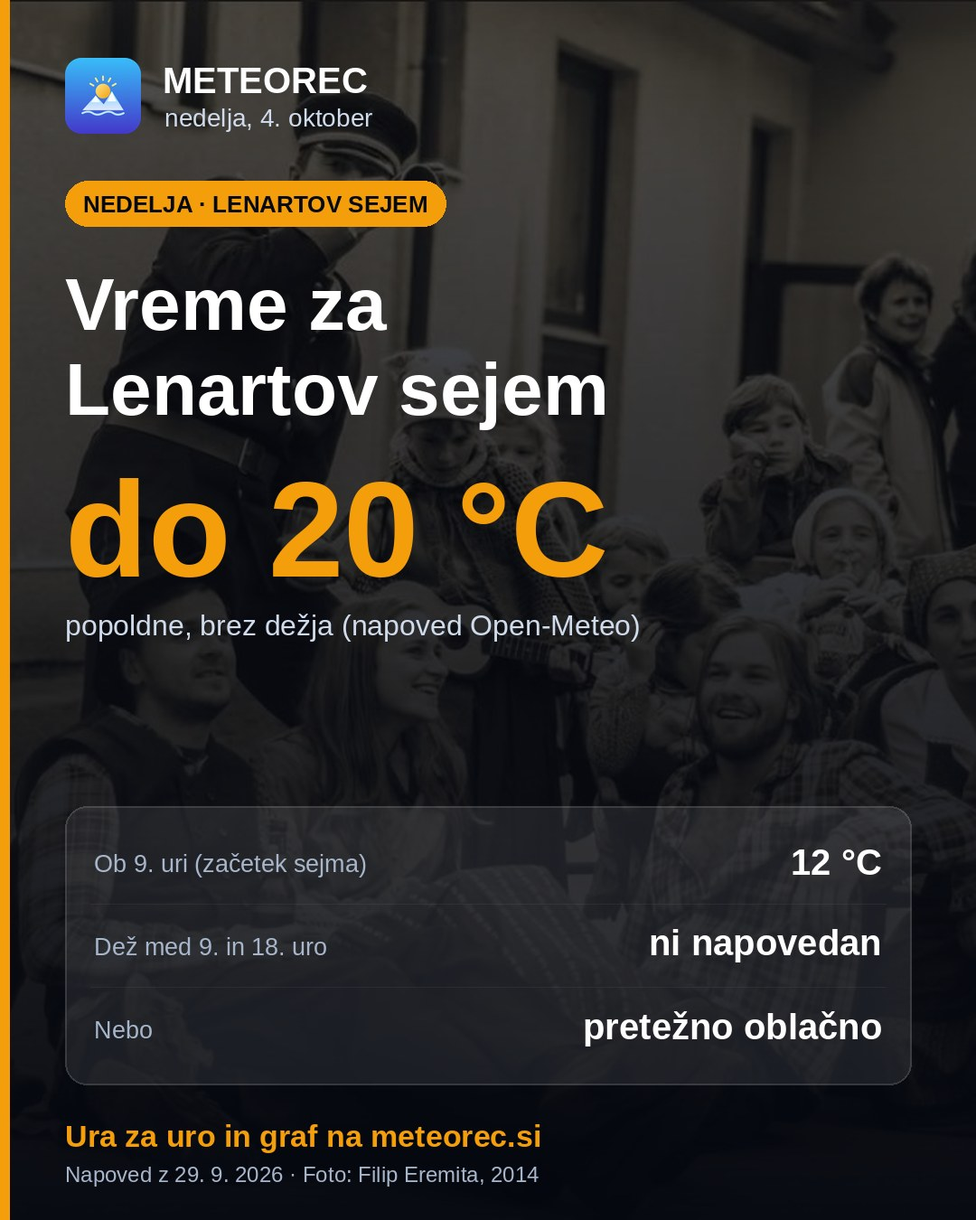
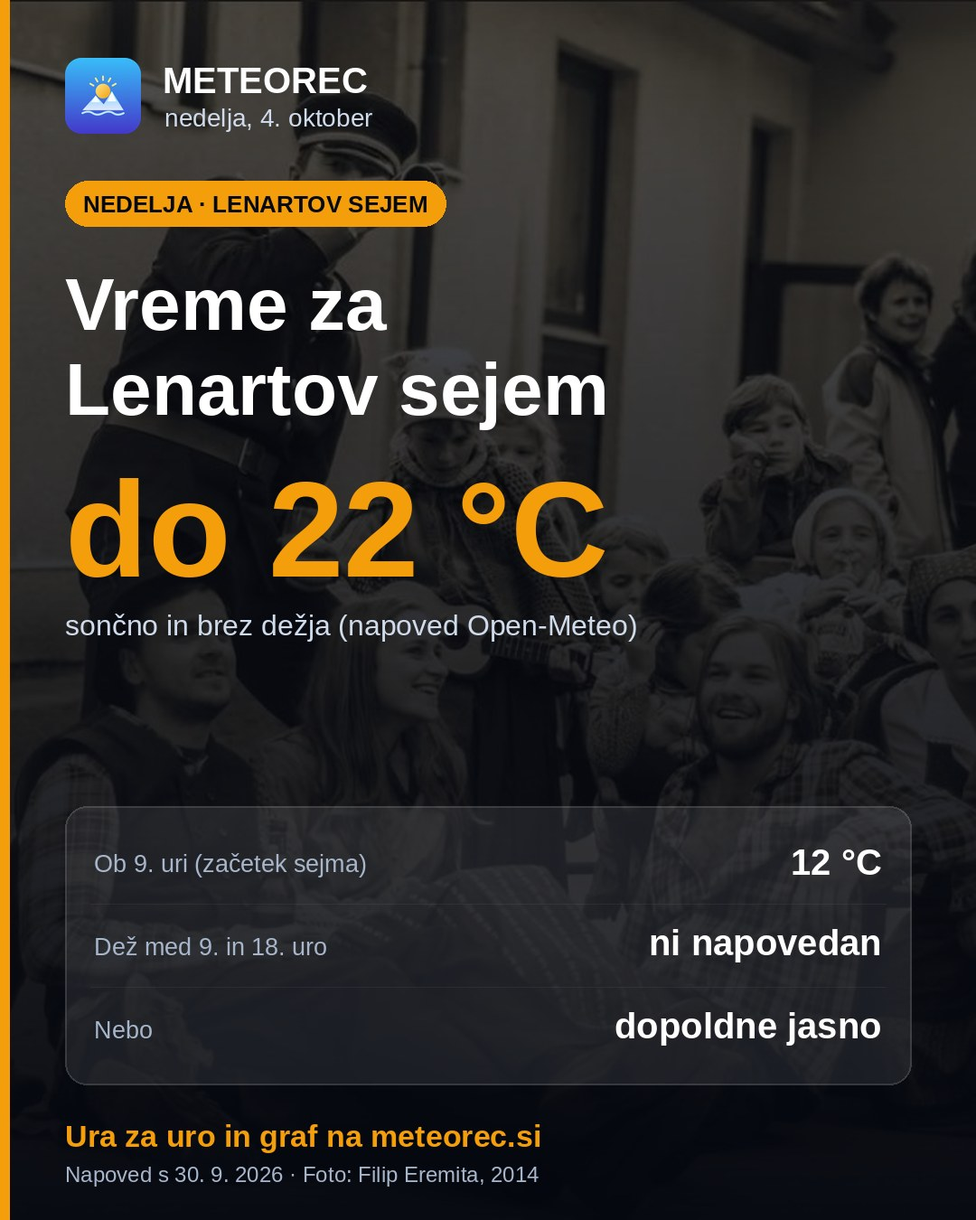
Blog: Lenartov sejem, napoved s 30. septembra (jasnejše nebo, do 22 °C), kartici
Claude-Session: https://claude.ai/code/session_01Dh2qCVHg536krYPkHekpzj

Changed region(s): [[0.0611, 0.4044, 0.6722, 0.5289], [0.5806, 0.8089, 0.8556, 0.8711]]

diff --git a/blog/lenartov-sejem-vreme-nedelja-1004.html b/blog/lenartov-sejem-vreme-nedelja-1004.html
@@ -21,7 +21,7 @@ j=d.createElement(s),dl=l!='dataLayer'?'&l='+l:'';j.async=true;j.src=
 <link rel="canonical" href="https://meteorec.si/blog/lenartov-sejem-vreme-nedelja-1004.html">
 <link rel="alternate" hreflang="sl" href="https://meteorec.si/blog/lenartov-sejem-vreme-nedelja-1004.html">
 <link rel="alternate" hreflang="x-default" href="https://meteorec.si/blog/lenartov-sejem-vreme-nedelja-1004.html">
-<meta name="description" content="Nedelja, 4. oktobra, v Rečici ob Savinji: suho, do 20 °C popoldne, jutro hladno in pretežno oblačno. Ura za uro, kaj obleči in kako zanesljiva je napoved.">
+<meta name="description" content="Nedelja, 4. oktobra, v Rečici ob Savinji: suho in sončno, do 22 °C popoldne, jutro hladno. Ura za uro, kaj obleči in kako zanesljiva je napoved.">
 <meta name="keywords" content="Lenartov sejem, vreme Rečica ob Savinji, nedelja 4. oktobra, napoved, Zgornja Savinjska dolina">
 <meta name="robots" content="index, follow, max-image-preview:large">
 <meta name="author" content="Filip Eremita">
@@ -29,7 +29,7 @@ j=d.createElement(s),dl=l!='dataLayer'?'&l='+l:'';j.async=true;j.src=
 <meta property="og:url" content="https://meteorec.si/blog/lenartov-sejem-vreme-nedelja-1004.html">
 <meta property="og:site_name" content="Meteorec">
 <meta property="og:title" content="Vreme na Lenartov sejem: nedelja, 4. oktobra">
-<meta property="og:description" content="Nedelja, 4. oktobra, v Rečici ob Savinji: suho, do 20 °C popoldne, jutro hladno in pretežno oblačno. Ura za uro, kaj obleči in kako zanesljiva je napoved.">
+<meta property="og:description" content="Nedelja, 4. oktobra, v Rečici ob Savinji: suho in sončno, do 22 °C popoldne, jutro hladno. Ura za uro, kaj obleči in kako zanesljiva je napoved.">
 <meta property="og:image" content="https://meteorec.si/og/lenartov-sejem-vreme-nedelja-1004.jpg">
 <meta property="og:image:width" content="1200">
 <meta property="og:image:height" content="630">
@@ -39,17 +39,17 @@ j=d.createElement(s),dl=l!='dataLayer'?'&l='+l:'';j.async=true;j.src=
 <meta property="article:section" content="Napoved">
 <meta name="twitter:card" content="summary_large_image">
 <meta name="twitter:title" content="Vreme na Lenartov sejem: nedelja, 4. oktobra">
-<meta name="twitter:description" content="Suha nedelja s popoldnevom okoli 20 °C – kaj obleči na Lenartov sejem pod rečiškimi lipami.">
+<meta name="twitter:description" content="Sončna in suha nedelja s popoldnevom okoli 22 °C – kaj obleči na Lenartov sejem pod rečiškimi lipami.">
 <meta name="twitter:image" content="https://meteorec.si/og/lenartov-sejem-vreme-nedelja-1004.jpg">
 <script type="application/ld+json">
 {
   "@context": "https://schema.org",
   "@type": "BlogPosting",
   "headline": "Vreme na Lenartov sejem: nedelja, 4. oktobra",
-  "description": "Nedelja, 4. oktobra, v Rečici ob Savinji: suho, do 20 °C popoldne, jutro hladno in pretežno oblačno. Ura za uro, kaj obleči in kako zanesljiva je napoved.",
+  "description": "Nedelja, 4. oktobra, v Rečici ob Savinji: suho in sončno, do 22 °C popoldne, jutro hladno. Ura za uro, kaj obleči in kako zanesljiva je napoved.",
   "image": { "@type": "ImageObject", "url": "https://meteorec.si/og/lenartov-sejem-vreme-nedelja-1004.jpg", "width": 1200, "height": 630 },
   "datePublished": "2026-09-29",
-  "dateModified": "2026-09-29",
+  "dateModified": "2026-09-30",
   "inLanguage": "sl",
   "author": { "@type": "Person", "name": "Filip Eremita", "url": "https://meteorec.si/o-postaji.html", "sameAs": ["https://ibanezar.github.io", "https://www.wunderground.com/dashboard/pws/IREICA1"] },
   "publisher": { "@type": "Organization", "name": "Meteorec", "logo": { "@type": "ImageObject", "url": "https://meteorec.si/icon-512.png" } },
@@ -80,7 +80,7 @@ j=d.createElement(s),dl=l!='dataLayer'?'&l='+l:'';j.async=true;j.src=
       "name": "Kakšno bo vreme na Lenartovem sejmu v nedeljo, 4. oktobra 2026?",
       "acceptedAnswer": {
         "@type": "Answer",
-        "text": "Po napovedi z 29. septembra 2026 bo v Rečici ob Savinji suho: Open-Meteo ne napoveduje padavin, od 51 izračunov ansambla ECMWF pa le eden daje čez dan (od 9. do 18. ure) vsaj 0,2 mm dežja. Ob 9. uri bo okoli 12 °C, popoldne okoli 20 °C, nebo pa bo pretežno oblačno. Napoved je pet dni vnaprej, zato jo pred nedeljo še preverite."
+        "text": "Po napovedi s 30. septembra 2026 bo v Rečici ob Savinji suho in dopoldne skoraj brez oblakov: Open-Meteo ne napoveduje padavin, noben od 51 izračunov ansambla ECMWF pa čez dan (od 9. do 18. ure) ne daje niti 0,2 mm dežja. Ob 9. uri bo okoli 12 °C, popoldne okoli 22 °C, popoldne se nebo nekoliko pooblači. Napoved je štiri dni vnaprej, zato jo pred nedeljo še preverite."
       },
       "@id": "https://meteorec.si/blog/lenartov-sejem-vreme-nedelja-1004.html#faq1"
     },
@@ -89,13 +89,13 @@ j=d.createElement(s),dl=l!='dataLayer'?'&l='+l:'';j.async=true;j.src=
       "name": "Kaj obleči na Lenartov sejem?",
       "acceptedAnswer": {
         "@type": "Answer",
-        "text": "Plasti. Jutro je hladno (najnižja temperatura okoli 7 °C, na dnu doline lahko tudi nižja), do opoldneva pa se ogreje na skoraj 19 °C. Veter bo šibek, sunki do 13 km/h, dežnika pa po napovedi ne bo treba."
+        "text": "Plasti. Jutro je hladno (najnižja temperatura okoli 7 °C, na dnu doline lahko tudi nižja), do opoldneva pa se ogreje na okoli 20 °C. Veter bo šibek, sunki do 14 km/h, dežnika pa po napovedi ne bo treba."
       },
       "@id": "https://meteorec.si/blog/lenartov-sejem-vreme-nedelja-1004.html#faq2"
     },
     {
       "@type": "Question",
-      "name": "Kako zanesljiva je napoved pet dni vnaprej?",
+      "name": "Kako zanesljiva je napoved štiri dni vnaprej?",
       "acceptedAnswer": {
         "@type": "Answer",
         "text": "Za suho vreme je dovolj zanesljiva, ker se vsi izračuni strinjajo. Temperatura je lahko za nekaj stopinj drugačna, jutranja pa je pogosto nižja od modelske, ker modeli ne vidijo hladnega zraka, ki se ob jasnih nočeh nabere na dnu doline."
@@ -162,9 +162,11 @@ height="0" width="0" style="display:none;visibility:hidden"></iframe></noscript>
   <article>
     <div class="stn-badge"><span></span> IREICA1 · Rečica ob Savinji · Napoved</div>
     <h1>Vreme na Lenartov sejem: nedelja, 4. oktobra</h1>
-    <p class="post-meta">29. septembra 2026 · Filip Eremita · Napoved za nedeljo, 4. 10.</p>
+    <p class="post-meta">29. septembra 2026 (posodobljeno 30. septembra) · Filip Eremita · Napoved za nedeljo, 4. 10.</p>
 
-    <p class="lead">Lenartov sejem pod rečiškimi lipami se začne ob 9. uri, tržna policija pa bo po navadi prva, ki bo obiskovalcem prebrala sejemska pravila. Vreme jo bo pri tem pustilo pri miru: <strong>v nedeljo, 4. oktobra, naj bi bilo v Rečici suho</strong>, ob devetih okoli 12 °C, popoldne pa do <strong>20 °C</strong>. Nebo bo pretežno oblačno.</p>
+    <p class="lead">Lenartov sejem pod rečiškimi lipami se začne ob 9. uri, tržna policija pa bo po navadi prva, ki bo obiskovalcem prebrala sejemska pravila. Vreme jo bo pri tem pustilo pri miru: <strong>v nedeljo, 4. oktobra, naj bi bilo v Rečici suho</strong>, ob devetih okoli 12 °C, popoldne pa do <strong>22 °C</strong>. Dopoldne bo nebo skoraj brez oblakov.</p>
+
+    <p><em>Posodobljeno 30. septembra zjutraj: v primerjavi s včerajšnjo napovedjo je nebo bolj jasno (včeraj je bilo pretežno oblačno), popoldne je za dobro stopinjo toplejše (21,9 namesto 20,7 °C), dež pa še vedno ni napovedan.</em></p>
 
     <figure class="post-photo">
       <img src="/img/blog/lenartov-sejem-vreme-nedelja-1004/foto-3.jpg" alt="Skupina ljudi v starinskih oblačilih sedi in stoji na ulici pred hišo; moški v uniformi s kapo govori skozi rog, otroci in odrasli pa se smejijo ali ga opazujejo." width="1220" height="811" loading="lazy">
@@ -172,58 +174,58 @@ height="0" width="0" style="display:none;visibility:hidden"></iframe></noscript>
     </figure>
 
     <div class="stat-grid">
-      <div class="stat-card c-rain"><div class="sc-label">Dež med 9. in 18. uro</div><div class="sc-val">1/51</div><div class="sc-sub">članov ansambla ECMWF z vsaj 0,2 mm</div></div>
+      <div class="stat-card c-rain"><div class="sc-label">Dež med 9. in 18. uro</div><div class="sc-val">0/51</div><div class="sc-sub">članov ansambla ECMWF z vsaj 0,2 mm</div></div>
       <div class="stat-card c-temp"><div class="sc-label">Ob 9. uri (začetek)</div><div class="sc-val">12</div><div class="sc-sub">°C, Open-Meteo</div></div>
-      <div class="stat-card c-temp"><div class="sc-label">Najtopleje</div><div class="sc-val">20,7</div><div class="sc-sub">°C ob 15. uri, Open-Meteo</div></div>
-      <div class="stat-card c-wind"><div class="sc-label">Sunki vetra</div><div class="sc-val">≤ 13</div><div class="sc-sub">km/h čez dan</div></div>
+      <div class="stat-card c-temp"><div class="sc-label">Najtopleje</div><div class="sc-val">21,9</div><div class="sc-sub">°C ob 15. uri, Open-Meteo</div></div>
+      <div class="stat-card c-wind"><div class="sc-label">Sunki vetra</div><div class="sc-val">≤ 14</div><div class="sc-sub">km/h čez dan</div></div>
     </div>
 
     <span class="section-label">01 — Ura za uro</span>
     <h2 id="ure">Od odprtja stojnic do večera</h2>
 
-    <p>Spodaj je napoved Open-Meteo za Rečico po urah, samo za čas sejma. Jutro je hladno, saj se zrak ob sončnem vzhodu (ob 7.02) šele začne ogrevati: ob 7. uri je napovedanih dobrih 8 °C. Do desetih naraste na 15 °C, opoldne na skoraj 19 °C, popoldne pa se ustali okoli 20 °C. Sonce zaide ob 18.34, zato se po petih hitro ohladi.</p>
+    <p>Spodaj je napoved Open-Meteo za Rečico po urah, samo za čas sejma. Jutro je hladno, saj se zrak ob sončnem vzhodu (ob 7.02) šele začne ogrevati: ob 7. uri je napovedanih skoraj 8 °C. Do desetih naraste na dobrih 15 °C, opoldne na 20 °C, popoldne pa se ustali okoli 22 °C. Sonce zaide ob 18.34, zato se po petih hitro ohladi.</p>
 
     <div class="chart-card">
       <h3>Temperatura v nedeljo, 4. 10., po urah</h3>
       <p class="chart-sub">Napoved Open-Meteo za Rečico. Osenčeno je trajanje sejma od 9. ure naprej; pika označuje odprtje stojnic.</p>
       <div class="chart-legend" aria-hidden="true"><span><i style="background:#a855f7"></i>Open-Meteo</span><span><i style="background:rgba(127,146,171,.35)"></i>Sejem (9.00–18.00)</span></div>
-      <div class="chart-box"><canvas id="chartHour" role="img" aria-label="Napovedana temperatura po urah v nedeljo, 4. oktobra: od 8 °C ob 7. uri do 20,7 °C ob 15. uri"></canvas></div>
+      <div class="chart-box"><canvas id="chartHour" role="img" aria-label="Napovedana temperatura po urah v nedeljo, 4. oktobra: od 8 °C ob 7. uri do 21,9 °C ob 15. uri"></canvas></div>
       <h3 style="margin-top:1.3rem">Oblačnost čez dan</h3>
-      <p class="chart-sub">Delež neba, prekritega z oblaki. Visoka oblačnost sama po sebi ne pomeni dežja: verjetnost dežja je vso uro 0 %.</p>
-      <div class="chart-box sm"><canvas id="chartCloud" role="img" aria-label="Napovedana oblačnost po urah, med 82 in 100 odstotki"></canvas></div>
-      <p class="tbl-note">Zapelji z miško ali prstom čez točko za točne vrednosti. Napoved z 29. septembra 2026.</p>
+      <p class="chart-sub">Delež neba, prekritega z oblaki. Dopoldne je nebo skoraj jasno, popoldne se nekoliko pooblači; verjetnost dežja je vso uro 0 %.</p>
+      <div class="chart-box sm"><canvas id="chartCloud" role="img" aria-label="Napovedana oblačnost po urah: dopoldne do 4 odstotke, popoldne do 58 odstotkov"></canvas></div>
+      <p class="tbl-note">Zapelji z miško ali prstom čez točko za točne vrednosti. Napoved s 30. septembra 2026.</p>
       <details class="tbl"><summary>Številke v tabeli</summary>
       <div class="table-wrap">
     <table class="stats">
     <tr><th>Ura</th><th>Temperatura (°C)</th><th>Oblačnost</th><th>Sunki (km/h)</th><th>Verjetnost dežja</th></tr>
-<tr><td class="day">9.00</td><td>11,8</td><td>95 %</td><td>10</td><td class="dry">0 %</td></tr>
-<tr><td class="day">10.00</td><td>15,0</td><td>98 %</td><td>9</td><td class="dry">0 %</td></tr>
-<tr><td class="day">11.00</td><td>17,5</td><td>100 %</td><td>8</td><td class="dry">0 %</td></tr>
-<tr><td class="day">12.00</td><td>18,9</td><td>95 %</td><td>9</td><td class="dry">0 %</td></tr>
-<tr><td class="day">13.00</td><td>19,8</td><td>89 %</td><td>11</td><td class="dry">0 %</td></tr>
-<tr><td class="day">14.00</td><td>20,4</td><td>82 %</td><td>12</td><td class="dry">0 %</td></tr>
-<tr><td class="day">15.00</td><td>20,7</td><td>87 %</td><td>12</td><td class="dry">0 %</td></tr>
-<tr><td class="day">16.00</td><td>20,4</td><td>94 %</td><td>11</td><td class="dry">0 %</td></tr>
-<tr><td class="day">17.00</td><td>19,5</td><td>100 %</td><td>10</td><td class="dry">0 %</td></tr>
+<tr><td class="day">9.00</td><td>11,9</td><td>1 %</td><td>11</td><td class="dry">0 %</td></tr>
+<tr><td class="day">10.00</td><td>15,5</td><td>3 %</td><td>9</td><td class="dry">0 %</td></tr>
+<tr><td class="day">11.00</td><td>18,5</td><td>4 %</td><td>8</td><td class="dry">0 %</td></tr>
+<tr><td class="day">12.00</td><td>20,1</td><td>22 %</td><td>9</td><td class="dry">0 %</td></tr>
+<tr><td class="day">13.00</td><td>21,1</td><td>40 %</td><td>11</td><td class="dry">0 %</td></tr>
+<tr><td class="day">14.00</td><td>21,6</td><td>58 %</td><td>12</td><td class="dry">0 %</td></tr>
+<tr><td class="day">15.00</td><td>21,9</td><td>50 %</td><td>13</td><td class="dry">0 %</td></tr>
+<tr><td class="day">16.00</td><td>21,8</td><td>41 %</td><td>13</td><td class="dry">0 %</td></tr>
+<tr><td class="day">17.00</td><td>20,8</td><td>33 %</td><td>13</td><td class="dry">0 %</td></tr>
     </table>
     </div>
-    <p class="tbl-note">Napoved Open-Meteo z 29. septembra 2026, točka Rečica ob Savinji.</p>
+    <p class="tbl-note">Napoved Open-Meteo s 30. septembra 2026, točka Rečica ob Savinji.</p>
       </details>
     </div>
 
-    <p>Oblačnost ni znak dežja. Model jo drži med 82 in 100 %, torej bo verjetno megleno ali povsem oblačno jutro, čez dan pa se nebo morda za kratek čas nekoliko razjasni, najbolj okoli 14. ure. Jasnega, sončnega dneva ne obljubljamo.</p>
+    <p>Dopoldne bo nebo skoraj brez oblakov (do 11. ure 0–4 %), popoldne pa se bo pooblačilo: največ okoli 14. ure (58 %), zvečer spet okoli 55 %. Najbolj sončen del dneva je torej dopoldne, popoldne bo sonce občasno zakrito.</p>
 
     <span class="section-label">02 — Kako zanesljivo</span>
-    <h2 id="zanesljivost">Pet dni vnaprej – za dež dobro, za jutro slabše</h2>
+    <h2 id="zanesljivost">Štiri dni vnaprej – za dež dobro, za jutro slabše</h2>
 
-    <p>Za nedeljo je suho vreme najbolj verjetna možnost. Open-Meteo dežja ne napoveduje, pri ansamblu ECMWF pa le eden od 51 izračunov v času sejma daje vsaj 0,2 mm. To je približno <span class="mono">2 %</span>. Sobota, 3. oktobra, je po istem modelu prav tako suha (do 20,8 °C), v ponedeljek pa verjetnost dežja začne naraščati (do 17 %).</p>
+    <p>Za nedeljo je suho vreme zelo verjetno. Open-Meteo dežja ne napoveduje, noben od 51 izračunov ansambla ECMWF pa v času sejma ne daje niti 0,2 mm. Sobota, 3. oktobra, je po istem modelu prav tako suha (do 21,1 °C), v ponedeljek je verjetnost dežja le 8 %.</p>
 
-    <p>Bolj negotova je jutranja temperatura. Naš model MTR (napoved za 30. 9.–2. 10., za nedeljo je še ni) je v zadnjih dneh dosledno napovedoval hladnejša jutra kot Open-Meteo, med 1 in 5 °C. Na dnu doline se ob mirnih nočeh nabere hladen zrak, ki ga modeli z grobo mrežo ne vidijo. Če bo noč pred sejmom mirna, je torej temperatura pod 7 °C dokaj verjetna. Ob devetih bo sicer že topleje, a stojnice in senca pod lipami bodo še hladne.</p>
+    <p>Bolj negotova je jutranja temperatura. Open-Meteo napoveduje jasno noč, kar je pogoj za hladno jutro na dnu doline. Naš model MTR (napoved za 30. 9.–2. 10., za nedeljo je še ni) je v zadnjih dneh dosledno napovedoval hladnejša jutra kot Open-Meteo, med 1 in 5 °C: hladen zrak se ob mirnih nočeh nabere v dolini, modeli z grobo mrežo pa ga ne vidijo. Če bo noč pred sejmom mirna, je torej temperatura pod 7 °C dokaj verjetna, možna je tudi jutranja megla v dolini. Ob devetih bo sicer že topleje, a stojnice in senca pod lipami bodo še hladne.</p>
 
     <span class="section-label">03 — Kaj pričakovati glede na pretekla leta</span>
-    <h2 id="primerjava">Za začetek oktobra je to običajen, nekoliko suh dan</h2>
+    <h2 id="primerjava">Za začetek oktobra topel in suh dan</h2>
 
-    <p>Postaja v Rečici je od 1. do 7. oktobra v letih 2020–2025 v povprečju izmerila najvišjo temperaturo <span class="mono">18,9 °C</span> in najnižjo <span class="mono">6,8 °C</span>. Napovedanih <span class="mono">20,7 °C</span> je tako nekoliko nad povprečjem, jutro pa blizu njega.</p>
+    <p>Postaja v Rečici je od 1. do 7. oktobra v letih 2020–2025 v povprečju izmerila najvišjo temperaturo <span class="mono">18,9 °C</span> in najnižjo <span class="mono">6,8 °C</span>. Napovedanih <span class="mono">21,9 °C</span> je tako za 3 °C nad povprečjem in blizu najtoplejšega 4. oktobra v teh letih (22,3 °C leta 2021), jutro pa blizu povprečja.</p>
 
 
     <div class="chart-card">
@@ -231,7 +233,7 @@ height="0" width="0" style="display:none;visibility:hidden"></iframe></noscript>
       <p class="chart-sub">Vsak stolpec sega od najnižje do najvišje temperature dneva. Sivo: meritve postaje IREICA1, modro: dan z dežjem (vsaj 0,2 mm), vijolično: letošnja napoved Open-Meteo.</p>
       <div class="chart-legend" aria-hidden="true"><span><i style="background:#7f92ab"></i>Meritev, suho</span><span><i style="background:#3987e5"></i>Meritev, dež</span><span><i style="background:#a855f7"></i>Napoved 2026</span></div>
       <div class="chart-box sm2"><canvas id="chartHist" role="img" aria-label="Najnižja in najvišja temperatura 4. oktobra v letih 2020 do 2025 ter napoved za 2026"></canvas></div>
-      <p class="tbl-note">Napovedanih 7,3 / 20,7 °C je znotraj razpona zadnjih šestih let: najnižja temperatura je bila od −1,2 do 10,6 °C, najvišja od 11,2 do 22,3 °C.</p>
+      <p class="tbl-note">Napovedanih 6,9 / 21,9 °C je znotraj razpona zadnjih šestih let: najnižja temperatura je bila od −1,2 do 10,6 °C, najvišja od 11,2 do 22,3 °C.</p>
     </div>
 
     <p>Dež (vsaj 0,2 mm) je v tem tednu padel na 23 od 42 dni, torej na več kot polovici dni. Prav 4. oktobra sta bila mokra dva od šestih dni (2020 in 2024), leta 2025 pa je bilo suho, a je bilo isto jutro pod ničlo (−1,2 °C). Suha nedelja je torej pri tem sejmu prej dobra novica kot nekaj samoumevnega.</p>
@@ -250,7 +252,7 @@ height="0" width="0" style="display:none;visibility:hidden"></iframe></noscript>
     <span class="section-label">04 — Praktično</span>
     <h2 id="obleka">Kaj obleči</h2>
 
-    <p>Plasti: topla jopa za zgodnje ure in konec sejma, čez dan pa lahka majica. Dežnik po napovedi ni potreben, tla pa so lahko zaradi jutranje rose vlažna. Vetra skoraj ne bo, sunki ne bodo presegali 13 km/h.</p>
+    <p>Plasti: topla jopa za zgodnje ure in konec sejma, čez dan pa lahka majica. Dežnik po napovedi ni potreben, tla pa so lahko zaradi jutranje rose vlažna. Vetra skoraj ne bo, sunki ne bodo presegali 14 km/h.</p>
 
     <p>Vremensko sliko za Rečico sproti kaže <a href="/" style="color:var(--blue)">stran z vremenom v živo</a>, morebitne spremembe napovedi pa <a href="/vreme-recica-ob-savinji/" style="color:var(--blue)">stran za Rečico</a>.</p>
 
@@ -258,15 +260,15 @@ height="0" width="0" style="display:none;visibility:hidden"></iframe></noscript>
 
     <div class="faq-block">
       <h2 id="vprasanja">Pogosta vprašanja</h2>
-<div class="faq-item"><h3>Kakšno bo vreme na Lenartovem sejmu v nedeljo, 4. oktobra 2026?</h3><p>Po napovedi z 29. septembra 2026 bo v Rečici ob Savinji suho: Open-Meteo ne napoveduje padavin, od 51 izračunov ansambla ECMWF pa le eden daje čez dan (od 9. do 18. ure) vsaj 0,2 mm dežja. Ob 9. uri bo okoli 12 °C, popoldne okoli 20 °C, nebo pa bo pretežno oblačno. Napoved je pet dni vnaprej, zato jo pred nedeljo še preverite.</p></div>
-<div class="faq-item"><h3>Kaj obleči na Lenartov sejem?</h3><p>Plasti. Jutro je hladno (najnižja temperatura okoli 7 °C, na dnu doline lahko tudi nižja), do opoldneva pa se ogreje na skoraj 19 °C. Veter bo šibek, sunki do 13 km/h, dežnika pa po napovedi ne bo treba.</p></div>
-<div class="faq-item"><h3>Kako zanesljiva je napoved pet dni vnaprej?</h3><p>Za suho vreme je dovolj zanesljiva, ker se vsi izračuni strinjajo. Temperatura je lahko za nekaj stopinj drugačna, jutranja pa je pogosto nižja od modelske, ker modeli ne vidijo hladnega zraka, ki se ob jasnih nočeh nabere na dnu doline.</p></div>
+<div class="faq-item"><h3>Kakšno bo vreme na Lenartovem sejmu v nedeljo, 4. oktobra 2026?</h3><p>Po napovedi s 30. septembra 2026 bo v Rečici ob Savinji suho in dopoldne skoraj brez oblakov: Open-Meteo ne napoveduje padavin, noben od 51 izračunov ansambla ECMWF pa čez dan (od 9. do 18. ure) ne daje niti 0,2 mm dežja. Ob 9. uri bo okoli 12 °C, popoldne okoli 22 °C, popoldne se nebo nekoliko pooblači. Napoved je štiri dni vnaprej, zato jo pred nedeljo še preverite.</p></div>
+<div class="faq-item"><h3>Kaj obleči na Lenartov sejem?</h3><p>Plasti. Jutro je hladno (najnižja temperatura okoli 7 °C, na dnu doline lahko tudi nižja), do opoldneva pa se ogreje na okoli 20 °C. Veter bo šibek, sunki do 14 km/h, dežnika pa po napovedi ne bo treba.</p></div>
+<div class="faq-item"><h3>Kako zanesljiva je napoved štiri dni vnaprej?</h3><p>Za suho vreme je dovolj zanesljiva, ker se vsi izračuni strinjajo. Temperatura je lahko za nekaj stopinj drugačna, jutranja pa je pogosto nižja od modelske, ker modeli ne vidijo hladnega zraka, ki se ob jasnih nočeh nabere na dnu doline.</p></div>
     </div>
 
     <div class="sources">
       <strong>Viri:</strong><br>
       Meritve: postaja IREICA1, Rečica ob Savinji (od novembra 2019), 1.–7. 10. v letih 2020–2025.<br>
-      Napoved z 29. 9. 2026: <a href="https://open-meteo.com/" target="_blank" rel="noopener" style="color:var(--blue)">Open-Meteo</a> in ansambel ECMWF IFS (51 članov); MTR za 30. 9.–2. 10.<br>
+      Napoved s 30. 9. 2026 zjutraj: <a href="https://open-meteo.com/" target="_blank" rel="noopener" style="color:var(--blue)">Open-Meteo</a> in ansambel ECMWF IFS (51 članov); MTR (z 29. 9.) za 30. 9.–2. 10.<br>
       Sejem: <a href="https://www.obcina-recica.si/objava/65515" target="_blank" rel="noopener" style="color:var(--blue)">Občina Rečica ob Savinji</a>.
     </div>
 
@@ -287,7 +289,7 @@ height="0" width="0" style="display:none;visibility:hidden"></iframe></noscript>
   <!-- sorodni:start — samodejno, wire_all(); ne urejaj ročno -->
   <section class="related-posts">
     <h2 class="related-title">Sorodni članki</h2>
-    <div class="related-grid"><a class="related-card" href="/blog/indijansko-poletje-suh-soncen-teden-0925.html"><span class="related-date">25. septembra 2026</span><span class="related-h">Indijansko poletje: pred nami suh in sončen teden</span><span class="related-sum">Od sobote do vsaj četrtka suho in sončno, popoldne okoli 20 °C, jutra hladna. Kaj je indijansko poletje, kaj kažejo ARSO…</span></a><a class="related-card" href="/blog/naslednji-teden-konec-poletja-0904.html"><span class="related-date">4. septembra 2026</span><span class="related-h">Naslednji teden konec poletja?</span><span class="related-sum">Do torka še okoli 30 °C, nato vsi modeli obrnejo navzdol: od četrtka najvišje temperature od 14 do 20 °C in dež. Kaj o k…</span></a><a class="related-card" href="/blog/tedenska-napoved-24-28-avgust-2026.html"><span class="related-date">23. avgusta 2026</span><span class="related-h">Napoved za teden 24.–28. avgusta: torek uganka, petek vroč in vetroven</span><span class="related-sum">Šest modelov, ARSO in domači MTR za teden 24.–28. avgusta v Zgornji Savinjski dolini: torek je velika uganka, petek vroč…</span></a></div>
+    <div class="related-grid"><a class="related-card" href="/blog/indijansko-poletje-suh-soncen-teden-0925.html"><span class="related-date">25. septembra 2026</span><span class="related-h">Indijansko poletje: pred nami suh in sončen teden</span><span class="related-sum">Od sobote do vsaj četrtka suho in sončno, popoldne okoli 20 °C, jutra hladna. Kaj je indijansko poletje, kaj kažejo ARSO…</span></a><a class="related-card" href="/blog/naslednji-teden-konec-poletja-0904.html"><span class="related-date">4. septembra 2026</span><span class="related-h">Naslednji teden konec poletja?</span><span class="related-sum">Do torka še okoli 30 °C, nato vsi modeli obrnejo navzdol: od četrtka najvišje temperature od 14 do 20 °C in dež. Kaj o k…</span></a><a class="related-card" href="/blog/2-1-c-najhladnejse-jesensko-jutro-kdaj-prva-slana-0923.html"><span class="related-date">23. septembra 2026</span><span class="related-h">2,1 °C zjutraj: najhladnejše jutro letošnje jeseni v Rečici ob Savinji — kdaj bo prva slana?</span><span class="related-sum">Postaja IREICA1 je zjutraj izmerila 2,1 °C — najhladnejše jutro letošnje jeseni, skoraj 7 °C pod normalo. Zakaj je bilo …</span></a></div>
   </section>
   <!-- sorodni:end -->
 
@@ -310,7 +312,7 @@ height="0" width="0" style="display:none;visibility:hidden"></iframe></noscript>
 (function () {
   const PAGE_URL   = "https://meteorec.si/blog/lenartov-sejem-vreme-nedelja-1004.html";
   const PAGE_TITLE = "Vreme na Lenartov sejem: nedelja, 4. oktobra | Meteorec";
-  const PAGE_TEXT  = "Suha nedelja s popoldnevom okoli 20 °C – kaj obleči na Lenartov sejem pod rečiškimi lipami.";
+  const PAGE_TEXT  = "Sončna in suha nedelja s popoldnevom okoli 22 °C – kaj obleči na Lenartov sejem pod rečiškimi lipami.";
   const enc = encodeURIComponent;
   document.getElementById('btn-wa').href = 'https://wa.me/?text=' + enc(PAGE_TEXT + ' ' + PAGE_URL);
   document.getElementById('btn-x').href = 'https://x.com/intent/tweet?text=' + enc(PAGE_TEXT) + '&url=' + enc(PAGE_URL);
@@ -343,9 +345,9 @@ height="0" width="0" style="display:none;visibility:hidden"></iframe></noscript>
   // Ure 7.00–18.00, Open-Meteo, 29. 9. 2026
   const HRS  = [7,8,9,10,11,12,13,14,15,16,17,18];
   const LAB  = HRS.map(h => h + '.00');
-  const TEMP = [8.1,9.3,11.8,15.0,17.5,18.9,19.8,20.4,20.7,20.4,19.5,17.5];
-  const CLOUD= [91,93,95,98,100,95,89,82,87,94,100,100];
-  const GUST = [12,12,10,9,8,9,11,12,12,11,10,9];
+  const TEMP = [7.7,9.1,11.9,15.5,18.5,20.1,21.1,21.6,21.9,21.8,20.8,18.4];
+  const CLOUD= [3,0,1,3,4,22,40,58,50,41,33,55];
+  const GUST = [14,13,11,9,8,9,11,12,13,13,13,13];
   const fair = { id: 'fair', beforeDatasetsDraw(c) {
     const x = c.scales.x, a = c.chartArea, ctx = c.ctx;
     const x0 = x.getPixelForValue(2), x1 = a.right;
@@ -384,7 +386,7 @@ height="0" width="0" style="display:none;visibility:hidden"></iframe></noscript>
 
   // 4. oktober: meritve IREICA1 in letošnja napoved
   const YRS  = ['2020','2021','2022','2023','2024','2025','2026 (napoved)'];
-  const R    = [[10.2,18.0],[10.6,22.3],[3.1,20.3],[9.6,18.3],[7.6,11.2],[-1.2,14.9],[7.3,20.7]];
+  const R    = [[10.2,18.0],[10.6,22.3],[3.1,20.3],[9.6,18.3],[7.6,11.2],[-1.2,14.9],[6.9,21.9]];
   const MM   = [3.3,0,0,0,9.9,0,0];
   new Chart(document.getElementById('chartHist'), {
     type: 'bar',

diff --git a/blog/naslednji-teden-konec-poletja-0904.html b/blog/naslednji-teden-konec-poletja-0904.html
@@ -220,7 +220,7 @@ height="0" width="0" style="display:none;visibility:hidden"></iframe></noscript>
   <!-- sorodni:start — samodejno, wire_all(); ne urejaj ročno -->
   <section class="related-posts">
     <h2 class="related-title">Sorodni članki</h2>
-    <div class="related-grid"><a class="related-card" href="/blog/indijansko-poletje-suh-soncen-teden-0925.html"><span class="related-date">25. septembra 2026</span><span class="related-h">Indijansko poletje: pred nami suh in sončen teden</span><span class="related-sum">Od sobote do vsaj četrtka suho in sončno, popoldne okoli 20 °C, jutra hladna. Kaj je indijansko poletje, kaj kažejo ARSO…</span></a><a class="related-card" href="/blog/tedenska-napoved-24-28-avgust-2026.html"><span class="related-date">23. avgusta 2026</span><span class="related-h">Napoved za teden 24.–28. avgusta: torek uganka, petek vroč in vetroven</span><span class="related-sum">Šest modelov, ARSO in domači MTR za teden 24.–28. avgusta v Zgornji Savinjski dolini: torek je velika uganka, petek vroč…</span></a><a class="related-card" href="/blog/tedenska-napoved-11-17-avgust-2026.html"><span class="related-date">10. avgusta 2026</span><span class="related-h">Tedenska napoved 11.–17. avgusta: sredina tedna je uganka, konec tedna vroč</span><span class="related-sum">Šest globalnih modelov, ARSO in domači MTR za teden od 11. do 17. avgusta. V torek nevihte, sredi tedna hladne noči, za …</span></a></div>
+    <div class="related-grid"><a class="related-card" href="/blog/tedenska-napoved-24-28-avgust-2026.html"><span class="related-date">23. avgusta 2026</span><span class="related-h">Napoved za teden 24.–28. avgusta: torek uganka, petek vroč in vetroven</span><span class="related-sum">Šest modelov, ARSO in domači MTR za teden 24.–28. avgusta v Zgornji Savinjski dolini: torek je velika uganka, petek vroč…</span></a><a class="related-card" href="/blog/indijansko-poletje-suh-soncen-teden-0925.html"><span class="related-date">25. septembra 2026</span><span class="related-h">Indijansko poletje: pred nami suh in sončen teden</span><span class="related-sum">Od sobote do vsaj četrtka suho in sončno, popoldne okoli 20 °C, jutra hladna. Kaj je indijansko poletje, kaj kažejo ARSO…</span></a><a class="related-card" href="/blog/tedenska-napoved-11-17-avgust-2026.html"><span class="related-date">10. avgusta 2026</span><span class="related-h">Tedenska napoved 11.–17. avgusta: sredina tedna je uganka, konec tedna vroč</span><span class="related-sum">Šest globalnih modelov, ARSO in domači MTR za teden od 11. do 17. avgusta. V torek nevihte, sredi tedna hladne noči, za …</span></a></div>
   </section>
   <!-- sorodni:end -->
 

diff --git a/blog/indijansko-poletje-suh-soncen-teden-0925.html b/blog/indijansko-poletje-suh-soncen-teden-0925.html
@@ -320,7 +320,7 @@ height="0" width="0" style="display:none;visibility:hidden"></iframe></noscript>
   <!-- sorodni:start — samodejno, wire_all(); ne urejaj ročno -->
   <section class="related-posts">
     <h2 class="related-title">Sorodni članki</h2>
-    <div class="related-grid"><a class="related-card" href="/blog/naslednji-teden-konec-poletja-0904.html"><span class="related-date">4. septembra 2026</span><span class="related-h">Naslednji teden konec poletja?</span><span class="related-sum">Do torka še okoli 30 °C, nato vsi modeli obrnejo navzdol: od četrtka najvišje temperature od 14 do 20 °C in dež. Kaj o k…</span></a><a class="related-card" href="/blog/lenartov-sejem-vreme-nedelja-1004.html"><span class="related-date">29. septembra 2026</span><span class="related-h">Vreme na Lenartov sejem: nedelja, 4. oktobra</span><span class="related-sum">Nedelja, 4. oktobra, v Rečici ob Savinji: suho, do 20 °C popoldne, jutro hladno in pretežno oblačno. Ura za uro, kaj obl…</span></a><a class="related-card" href="/blog/tedenska-napoved-11-17-avgust-2026.html"><span class="related-date">10. avgusta 2026</span><span class="related-h">Tedenska napoved 11.–17. avgusta: sredina tedna je uganka, konec tedna vroč</span><span class="related-sum">Šest globalnih modelov, ARSO in domači MTR za teden od 11. do 17. avgusta. V torek nevihte, sredi tedna hladne noči, za …</span></a></div>
+    <div class="related-grid"><a class="related-card" href="/blog/lenartov-sejem-vreme-nedelja-1004.html"><span class="related-date">29. septembra 2026</span><span class="related-h">Vreme na Lenartov sejem: nedelja, 4. oktobra</span><span class="related-sum">Nedelja, 4. oktobra, v Rečici ob Savinji: suho in sončno, do 22 °C popoldne, jutro hladno. Ura za uro, kaj obleči in kak…</span></a><a class="related-card" href="/blog/naslednji-teden-konec-poletja-0904.html"><span class="related-date">4. septembra 2026</span><span class="related-h">Naslednji teden konec poletja?</span><span class="related-sum">Do torka še okoli 30 °C, nato vsi modeli obrnejo navzdol: od četrtka najvišje temperature od 14 do 20 °C in dež. Kaj o k…</span></a><a class="related-card" href="/blog/tedenska-napoved-11-17-avgust-2026.html"><span class="related-date">10. avgusta 2026</span><span class="related-h">Tedenska napoved 11.–17. avgusta: sredina tedna je uganka, konec tedna vroč</span><span class="related-sum">Šest globalnih modelov, ARSO in domači MTR za teden od 11. do 17. avgusta. V torek nevihte, sredi tedna hladne noči, za …</span></a></div>
   </section>
   <!-- sorodni:end -->
 

diff --git a/blog/index.html b/blog/index.html
@@ -263,9 +263,9 @@ height="0" width="0" style="display:none;visibility:hidden"></iframe></noscript>
       <a class="post-card" href="lenartov-sejem-vreme-nedelja-1004.html">
         <img class="post-thumb" src="/og/lenartov-sejem-vreme-nedelja-1004.jpg" alt="Vreme na Lenartov sejem: nedelja, 4. oktobra" width="260" height="260" loading="eager" fetchpriority="high">
         <div class="post-card-body">
-          <div class="date">29. septembra 2026</div>
+          <div class="date">29. septembra 2026 <span class="post-updated" title="Posodobljeno 30. septembra 2026">☁</span></div>
           <h2>Vreme na Lenartov sejem: nedelja, 4. oktobra</h2>
-          <p>Nedelja, 4. oktobra, v Rečici ob Savinji: suho, do 20 °C popoldne, jutro hladno in pretežno oblačno. Ura za uro, kaj obleči in kako zanesljiva je napoved.</p>
+          <p>Nedelja, 4. oktobra, v Rečici ob Savinji: suho in sončno, do 22 °C popoldne, jutro hladno. Ura za uro, kaj obleči in kako zanesljiva je napoved.</p>
         </div>
       </a>
     </li>

diff --git a/blog/tema/napoved/index.html b/blog/tema/napoved/index.html
@@ -49,7 +49,7 @@
         <div class="post-card-body">
           <div class="date">29. septembra 2026</div>
           <h2>Vreme na Lenartov sejem: nedelja, 4. oktobra</h2>
-          <p>Nedelja, 4. oktobra, v Rečici ob Savinji: suho, do 20 °C popoldne, jutro hladno in pretežno oblačno. Ura za uro, kaj obleči in kako zanesljiva je napoved.</p>
+          <p>Nedelja, 4. oktobra, v Rečici ob Savinji: suho in sončno, do 22 °C popoldne, jutro hladno. Ura za uro, kaj obleči in kako zanesljiva je napoved.</p>
         </div>
       </a>
     </li>

diff --git a/blog/tema/recica-ob-savinji/index.html b/blog/tema/recica-ob-savinji/index.html
@@ -49,7 +49,7 @@
         <div class="post-card-body">
           <div class="date">29. septembra 2026</div>
           <h2>Vreme na Lenartov sejem: nedelja, 4. oktobra</h2>
-          <p>Nedelja, 4. oktobra, v Rečici ob Savinji: suho, do 20 °C popoldne, jutro hladno in pretežno oblačno. Ura za uro, kaj obleči in kako zanesljiva je napoved.</p>
+          <p>Nedelja, 4. oktobra, v Rečici ob Savinji: suho in sončno, do 22 °C popoldne, jutro hladno. Ura za uro, kaj obleči in kako zanesljiva je napoved.</p>
         </div>
       </a>
     </li>

diff --git a/blog/tema/zgornja-savinjska-dolina/index.html b/blog/tema/zgornja-savinjska-dolina/index.html
@@ -49,7 +49,7 @@
         <div class="post-card-body">
           <div class="date">29. septembra 2026</div>
           <h2>Vreme na Lenartov sejem: nedelja, 4. oktobra</h2>
-          <p>Nedelja, 4. oktobra, v Rečici ob Savinji: suho, do 20 °C popoldne, jutro hladno in pretežno oblačno. Ura za uro, kaj obleči in kako zanesljiva je napoved.</p>
+          <p>Nedelja, 4. oktobra, v Rečici ob Savinji: suho in sončno, do 22 °C popoldne, jutro hladno. Ura za uro, kaj obleči in kako zanesljiva je napoved.</p>
         </div>
       </a>
     </li>
